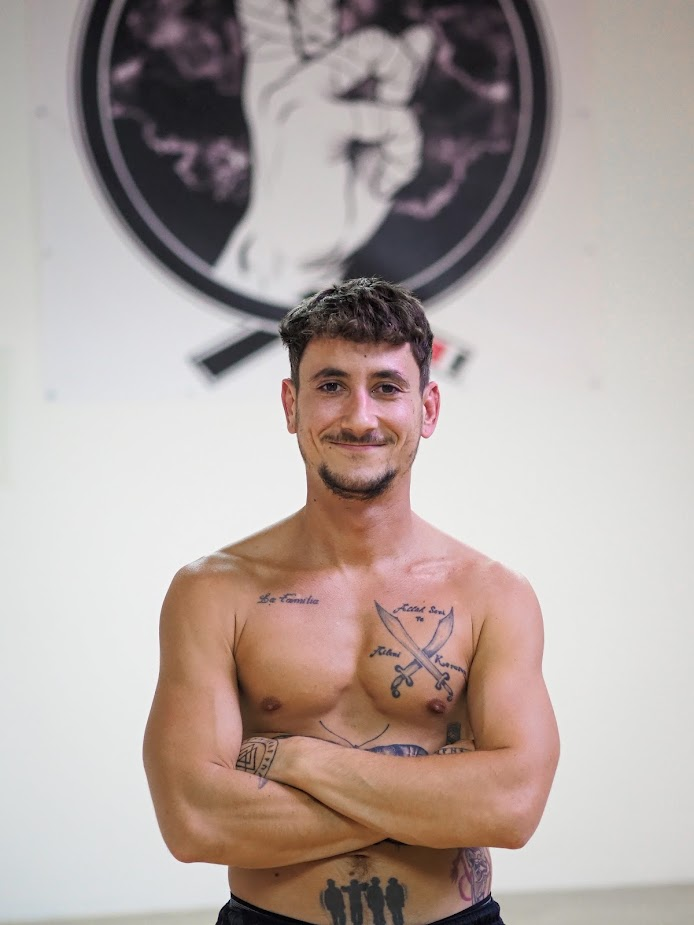
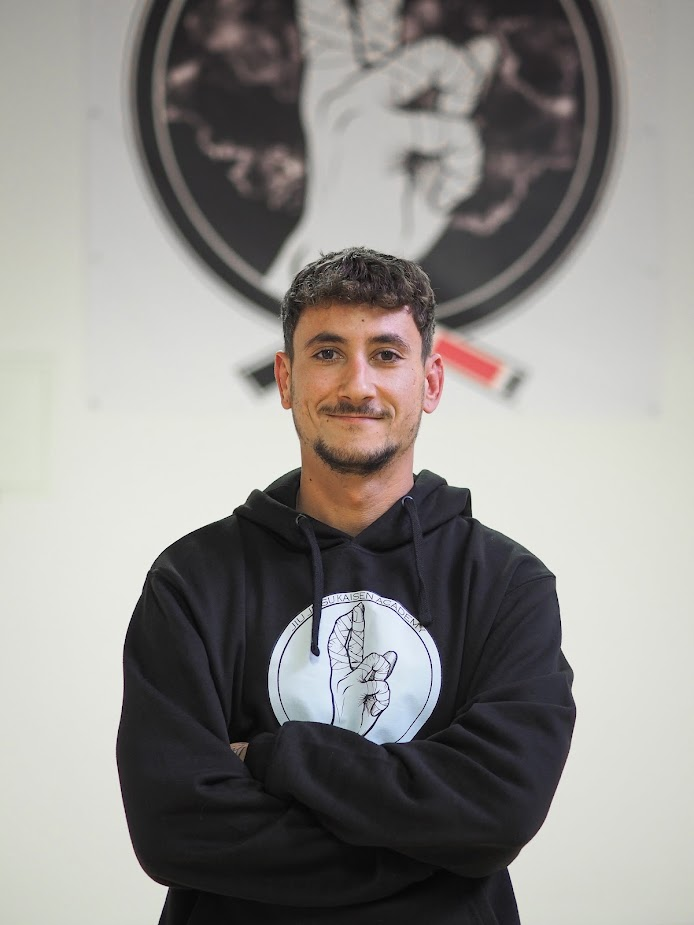
Trainer: Ricardo im Hoodie, Farbstich der Fotos im Karussell weg
Claude-Session: https://claude.ai/code/session_01ST7FeiZA5UtjpjXrkmcRCG

diff --git a/components/parallax-carousel.tsx b/components/parallax-carousel.tsx
@@ -313,7 +313,12 @@ const Plane: React.FC<PlaneProps> = ({
       loader.load(
         src,
         (tex) => {
-          tex.colorSpace = THREE.SRGBColorSpace;
+          // KEINE sRGB-Kennzeichnung: three.js wuerde die Farben sonst beim
+          // Auslesen in linear umrechnen, und der eigene Shader rechnet sie
+          // nicht zurueck. Ergebnis war ein dunkler, kontrastreicher,
+          // orangestichiger Look auf allen Trainerfotos. So kommen die
+          // Fotos 1:1 wie die Datei auf den Schirm.
+          tex.colorSpace = THREE.NoColorSpace;
           tex.minFilter = THREE.LinearFilter;
           tex.magFilter = THREE.LinearFilter;
           tex.wrapS = THREE.ClampToEdgeWrapping;

diff --git a/lib/config.ts b/lib/config.ts
@@ -238,7 +238,7 @@ export const coaches = [
     name: "Ricardo",
     belt: "Fitnessboxen",
     beltHex: "#1d4ed8",
-    image: "/img/coaches/ricardo.jpg",
+    image: "/img/coaches/ricardo.jpg?v=2",
     bio: "",
     teaches: [] as string[],
   },
